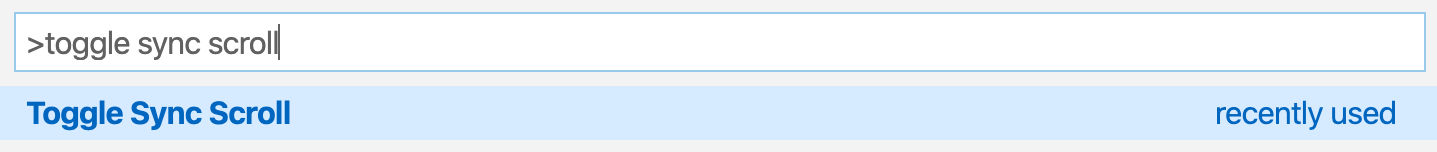
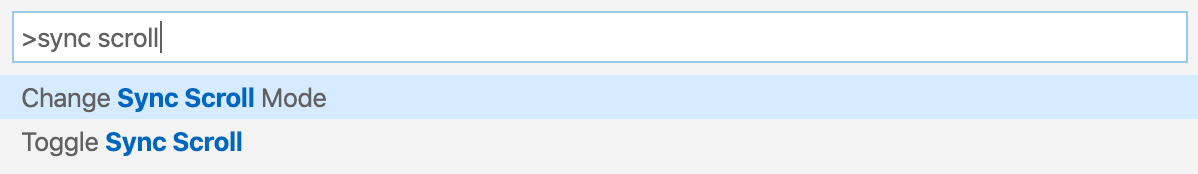
[dq] update README and screenshots.

diff --git a/README.md b/README.md
@@ -4,11 +4,11 @@ A Visual Studio Code Extension that make split panels scroll synchronically.
 
 ## Features
 
-This extension support synchronizing scrolling between split panels. It will be auto turned on when there are split panels.
+This extension support synchronizing scrolling between split panels. You can choose your sync mode to make them scrolled together.
 
-![Scroll synchronically when toggle on](./feature.gif)
+![Scroll synchronically when toggle on](./feature_mode.gif)
 
-It also can be toggled by command `Toggle Sync Scroll`.
+There're also commands you can use conveniently.
 
 ![Scroll synchronically when toggle on](./screenshot-command.png)
 
